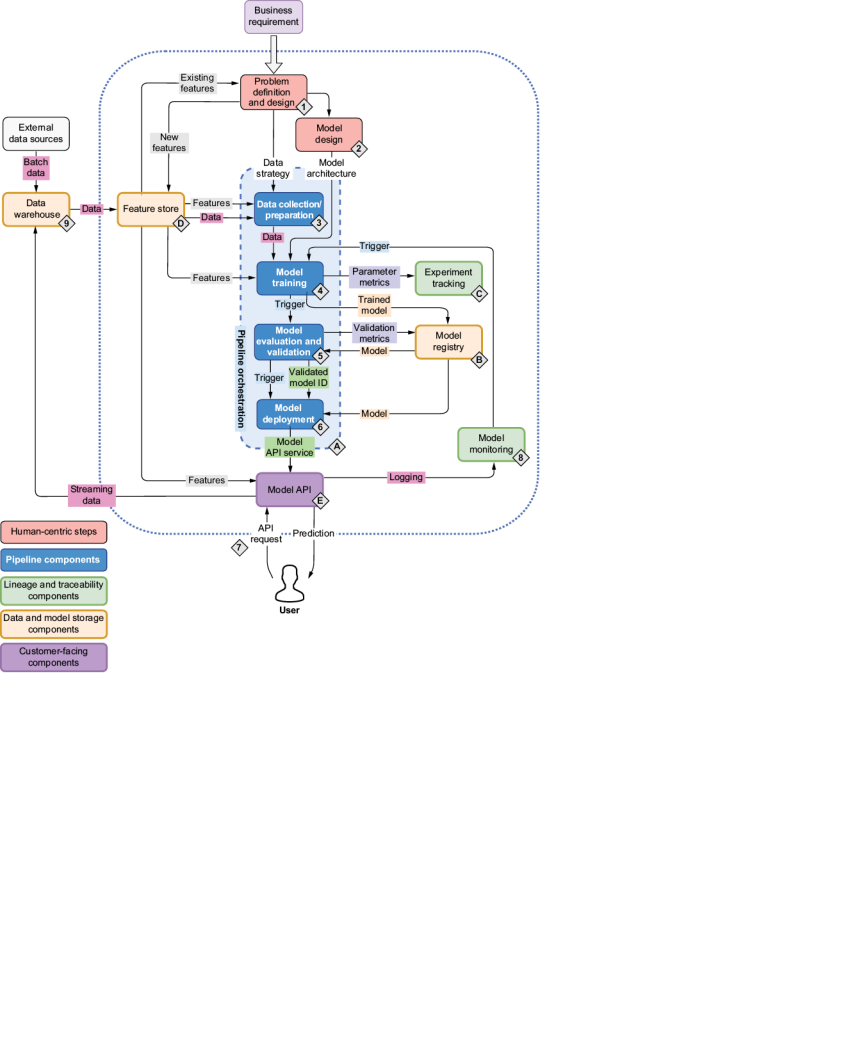
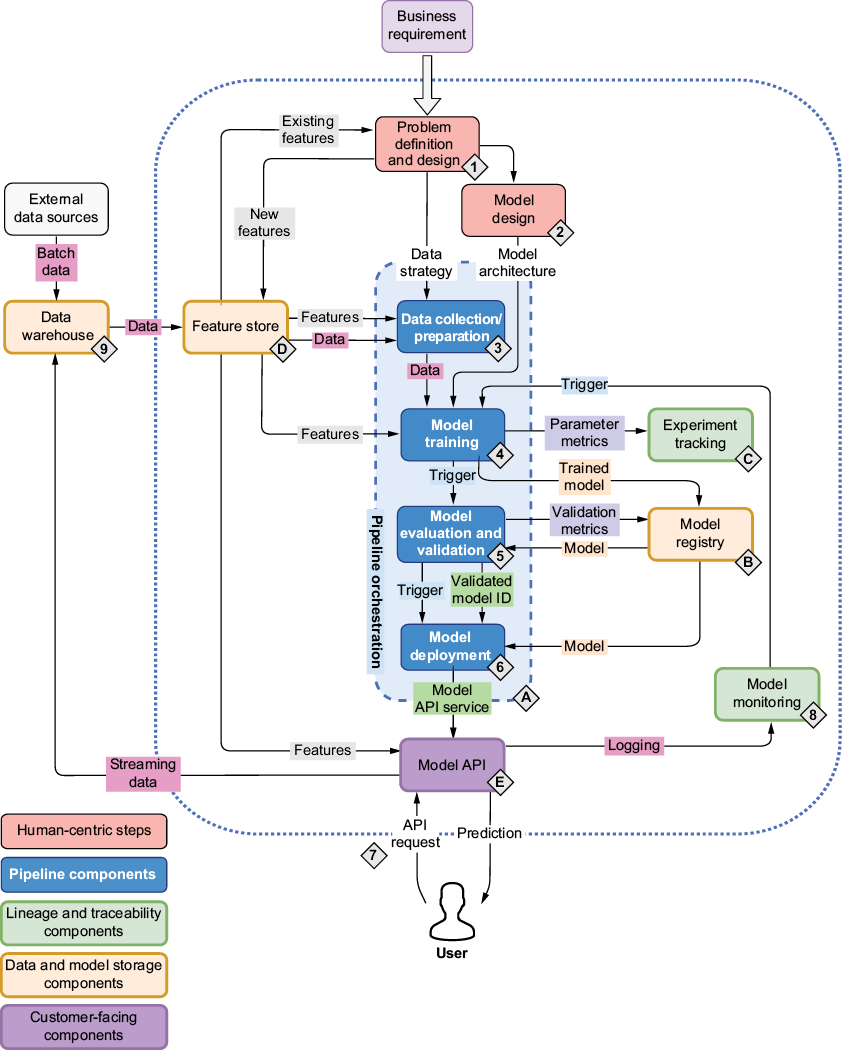
fix: restore full-resolution book diagrams without DPI scaling
Use the original PNG files without raster conversion, apply white backgrounds and unrounded responsive sizing in CSS, and refresh image URLs to bypass cached scaled versions.

diff --git a/assets/css/custom.css b/assets/css/custom.css
@@ -36,3 +36,9 @@ body {
   opacity: 0.7;
 }
 
+.content img[src^="/images/ml-platform-engineering/"] {
+  background-color: #fff;
+  border-radius: 0;
+  height: auto;
+  max-width: 100%;
+}

diff --git a/tests/test_ml_platform_series.py b/tests/test_ml_platform_series.py
@@ -83,9 +83,9 @@ class MLPlatformPublicationTest(unittest.TestCase):
         cls.hidden = cls.articles.keys() - cls.visible
 
     def page_path(self, url):
-        relative = unquote(url).lstrip("/")
-        path = self.output / relative
-        return path / "index.html" if url.endswith("/") else path
+        url_path = unquote(urlsplit(url).path)
+        path = self.output / url_path.lstrip("/")
+        return path / "index.html" if url_path.endswith("/") else path
 
     def test_only_overview_and_first_three_chapters_are_published(self):
         self.assertEqual(set(self.articles.values()), set(range(14)))
@@ -167,7 +167,7 @@ class MLPlatformPublicationTest(unittest.TestCase):
                 with self.subTest(page=slug, image=image["src"]):
                     self.assertTrue(image.get("alt", "").strip())
                     output = self.page_path(image["src"])
-                    original = ROOT / "static" / image["src"].lstrip("/")
+                    original = ROOT / "static" / urlsplit(image["src"]).path.lstrip("/")
                     self.assertEqual(output.read_bytes(), original.read_bytes())
                     used.add(original)
         self.assertEqual(

diff --git a/content/docs/tech/machine-learning-platform-engineering/02-what-is-mlops.md b/content/docs/tech/machine-learning-platform-engineering/02-what-is-mlops.md
@@ -13,7 +13,7 @@ ML 서비스는 첫 배포로 끝나지 않는다. 사용자와 데이터가 달
 
 이 장은 데이터 수집, 탐색적 데이터 분석(EDA), 모델링, 학습, 평가, 배포, 모니터링, 유지, 개선을 하나의 고리로 묶는다.
 
-![업무 목적에서 데이터 수집, 분석과 준비, 모델 개발과 학습, 평가, 배포, 모니터링으로 이어지는 흐름. 성능 저하나 업무 요구 변화가 생기면 다시 개선하거나 모델을 폐기한다.](/images/ml-platform-engineering/figure-2-02.png "그림 2.2. 순환하는 ML 생애주기. 출처: Machine Learning Platform Engineering, 2장.")
+![업무 목적에서 데이터 수집, 분석과 준비, 모델 개발과 학습, 평가, 배포, 모니터링으로 이어지는 흐름. 성능 저하나 업무 요구 변화가 생기면 다시 개선하거나 모델을 폐기한다.](/images/ml-platform-engineering/figure-2-02.png?v=2 "그림 2.2. 순환하는 ML 생애주기. 출처: Machine Learning Platform Engineering, 2장.")
 
 마지막에 모델 폐기까지 있다는 점을 놓치기 쉽다. 성능이 떨어졌다고 항상 새 모델을 학습해야 하는 것은 아니다. 풀던 문제의 가치가 없어졌거나 다른 절차가 더 효과적이라면 운영을 끝내는 것이 맞을 수 있다. 개선 여부를 판단하려면 처음 정한 업무 목적과 현재 운영 결과를 다시 연결해야 한다.
 
